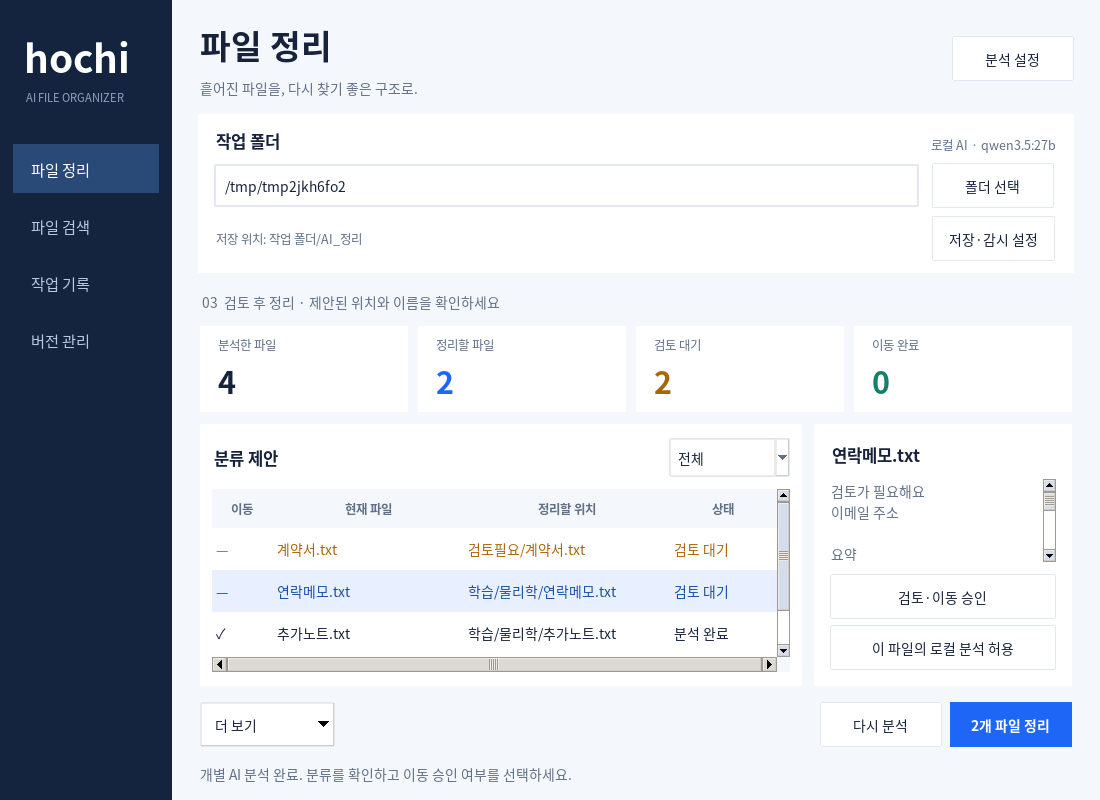
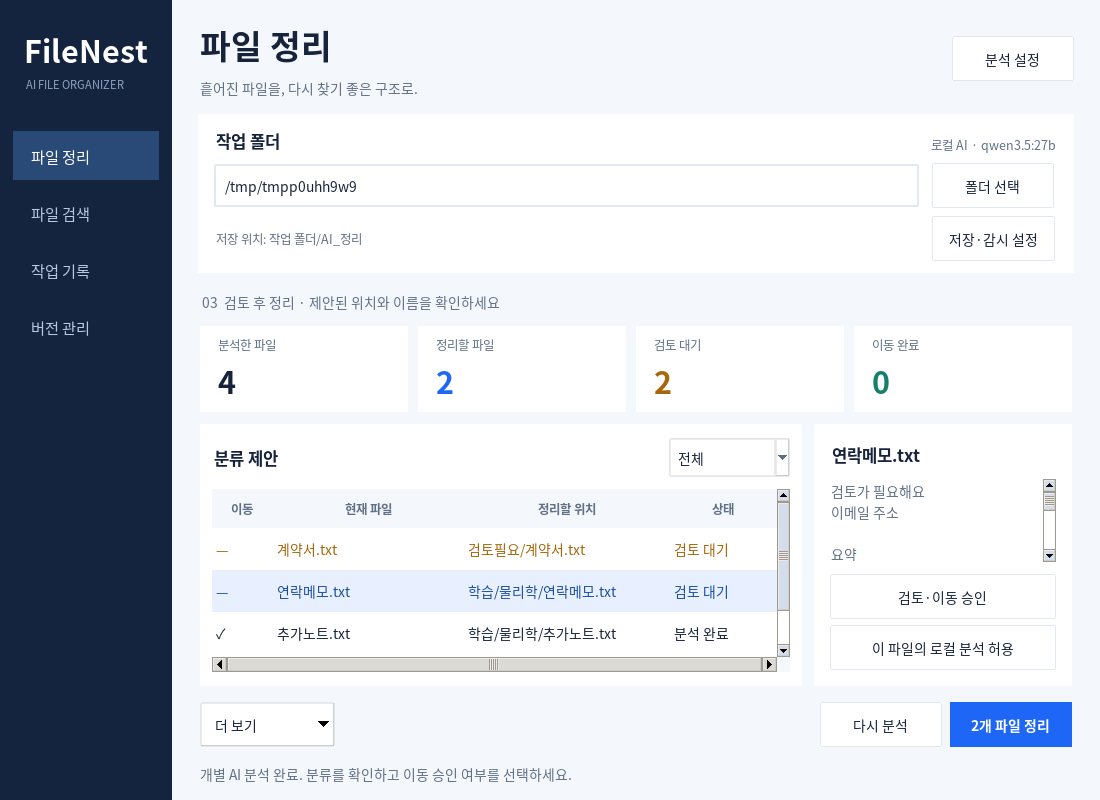
Rename file organizer to FileNest

diff --git a/file-organizer/app.py b/file-organizer/app.py
@@ -47,7 +47,7 @@ class App(ProjectUI):
         self.view_items, self.rows, self.library_items = {}, {}, {}
         self.controls = []
         self.settings_dialog = None
-        root.title('Hochi · AI 파일 정리')
+        root.title('FileNest · AI 파일 정리')
         root.geometry('1240x850')
         root.minsize(1100, 800)
         self.family = configure(root)
@@ -121,7 +121,7 @@ class App(ProjectUI):
         rail = tk.Frame(self.root, bg=NAVY, width=172)
         rail.pack(side='left', fill='y')
         rail.pack_propagate(False)
-        tk.Label(rail, text='hochi', font=(self.family, 28, 'bold'), fg='white', bg=NAVY).pack(anchor='w', padx=22, pady=(25, 0))
+        tk.Label(rail, text='FileNest', font=(self.family, 22, 'bold'), fg='white', bg=NAVY).pack(anchor='w', padx=22, pady=(25, 0))
         tk.Label(rail, text='AI FILE ORGANIZER', font=(self.family, 8), fg='#8FA4C3', bg=NAVY).pack(anchor='w', padx=24, pady=(0, 32))
         self.nav_buttons = []
         for index, title in enumerate(('파일 정리', '파일 검색', '작업 기록', '버전 관리')):

diff --git a/README.md b/README.md
@@ -1,11 +1,11 @@
-# Hochi — 세 가지 프로젝트
+# 세 가지 프로젝트
 
 요청한 세 프로젝트의 실행 가능한 초기 버전입니다. 하나의 저장소 안에서 폴더별로 관리합니다.
 
 | 프로젝트 | 플랫폼 | 시작점 |
 | --- | --- | --- |
 | 이미지 인식·요약 | Kotlin 안드로이드 앱 + Python 분석 서버 | `image-summary/android`를 Android Studio에서 열기 |
-| AI 파일 정리 | Python Windows 데스크톱 앱 (Tkinter) | `file-organizer/start.bat` 실행 |
+| FileNest 파일 정리 | Python Windows 데스크톱 앱 (Tkinter) | `file-organizer/start.bat` 실행 |
 | 스페이스 머셔너리 | Godot 4.6 기반 2D PC 게임 | `space-mercenary/project.godot`를 Godot에서 열고 F5 실행 |
 
 각 폴더 README에 상세 실행 방법이 있습니다. 이미지 분석에는 AI 키 연결이 필요합니다. 파일 정리는 OpenAI 또는 API 키가 필요 없는 Ollama 로컬 모델을 선택할 수 있습니다. 게임은 키 없이 실행됩니다. 파일 정리는 지정 폴더의 파일명과 지원 내용을 AI로 분석한 뒤 검토한 원본을 분류 폴더로 이동합니다.

diff --git a/file-organizer/README.md b/file-organizer/README.md
@@ -1,4 +1,4 @@
-# AI 파일 정리와 로컬 검색 v6
+# FileNest 파일 정리와 로컬 검색 v6.1
 
 폴더를 지정하면 로컬 사전 검사 후 AI가 목적·주제별 폴더, 요약, 태그를 제안합니다. 제안을 검토하고 수정·선택한 파일을 한 번에 정리할 수 있습니다. 슬라이드의 파일명과 폴더명은 예시이며 고정 규칙이 아닙니다.
 
@@ -200,7 +200,7 @@ GUI 테스트는 임시 문서와 모의 AI 응답으로 설정 저장·취소, 
 
 ## EXE와 개발 기록
 
-Windows에서 build_exe.bat를 실행하면 PyInstaller로 dist/HochiFileOrganizer.exe를 만들 수 있습니다. 최신 소스는 GitHub 저장소에서 git pull로 받습니다. 과거 ZIP은 해당 버전의 기록입니다.
+Windows에서 build_exe.bat를 실행하면 PyInstaller로 dist/FileNest.exe를 만들 수 있습니다. 최신 소스는 GitHub 저장소에서 git pull로 받습니다. 과거 ZIP은 해당 버전의 기록입니다.
 
 개발 일지: https://chatgpt.com/space/page_fc1118724a7081919aa53421a74cc80b
 
